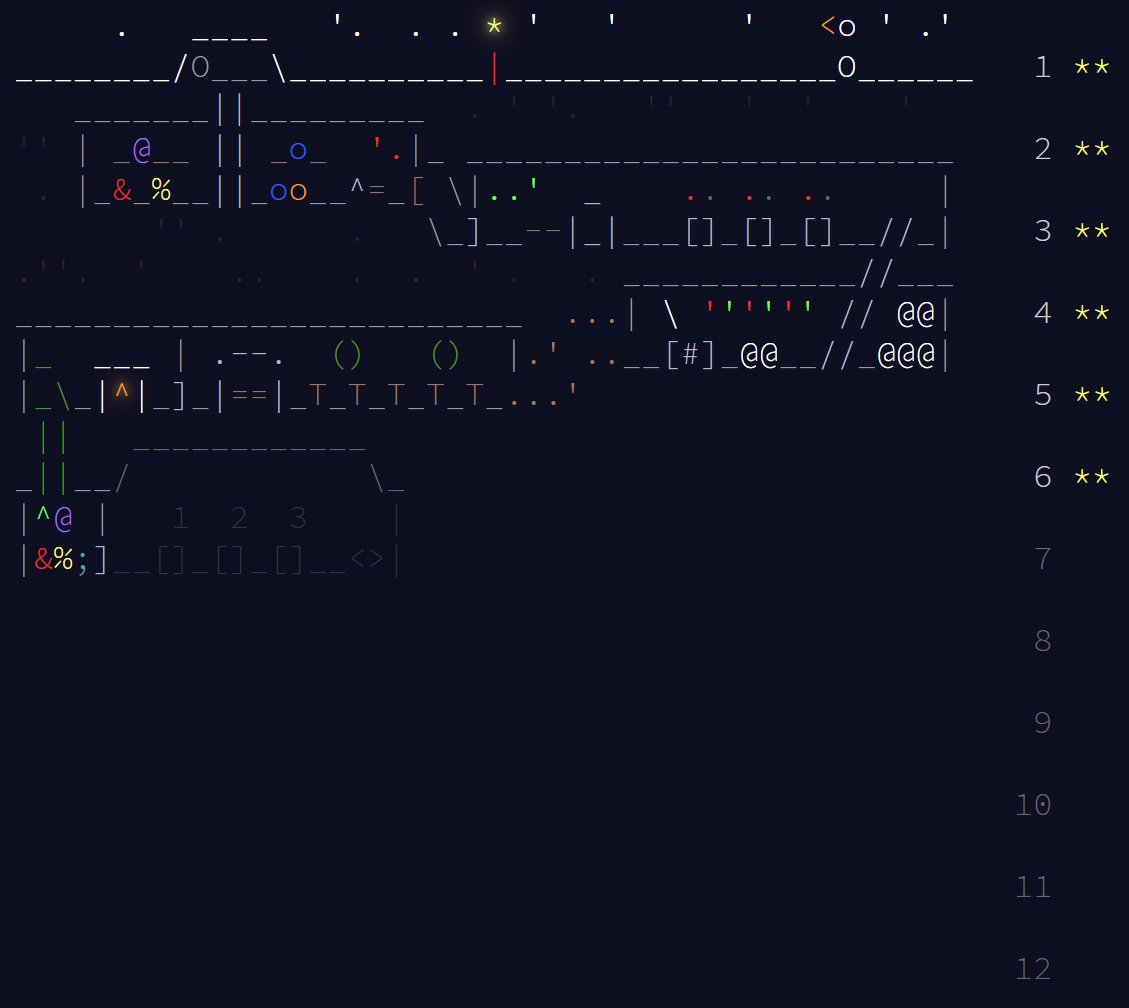
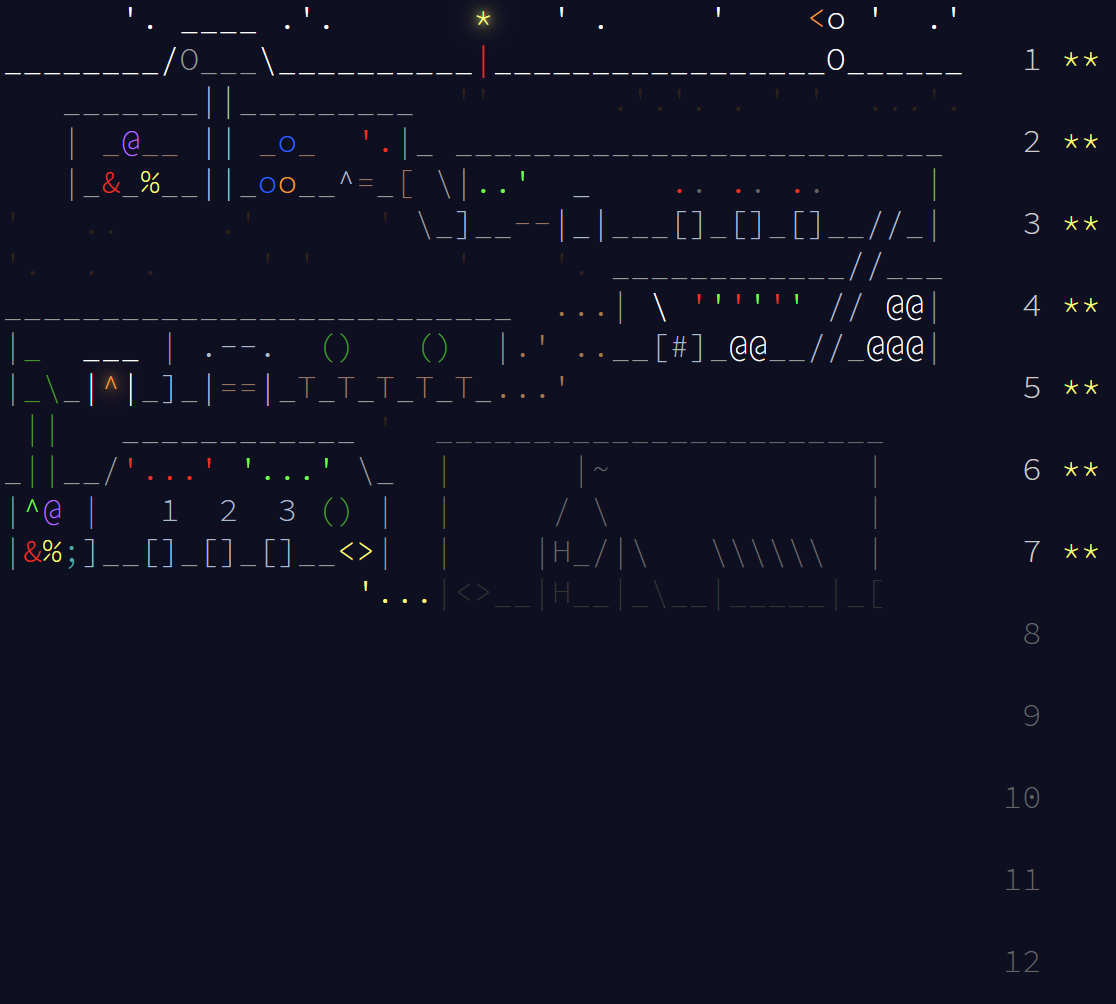
day7

diff --git a/day7/p2.py b/day7/p2.py
@@ -1,0 +1,24 @@
+with open("input.txt", 'r') as file:
+    grid = []
+    
+    for line in file.readlines():
+        a = [1 if (a == 'S' or a == "^") else 0 for a in line.strip()]
+        grid.append(a)
+    
+    split = 0
+    starting = grid[0]
+    for line in grid[1:]:
+        nxt = [0 for _ in starting]
+        for idx in range(len(starting)):
+            if line[idx] == 1 and starting[idx] >= 1:
+                split += 1
+                nxt[idx-1] += starting[idx]
+                nxt[idx+1] += starting[idx]
+            elif line[idx] == 0 and starting[idx] >= 1:
+                nxt[idx] += starting[idx]
+        starting = nxt
+        print(nxt)
+    
+    print(starting)
+    print(sum(starting))
+    print(split)

diff --git a/day7/p1.py b/day7/p1.py
@@ -1,0 +1,24 @@
+with open("input.txt", 'r') as file:
+    grid = []
+    
+    for line in file.readlines():
+        a = [1 if (a == 'S' or a == "^") else 0 for a in line.strip()]
+        grid.append(a)
+    
+    split = 0
+    starting = grid[0]
+    for line in grid[1:]:
+        nxt = [0 for _ in starting]
+        for idx in range(len(starting)):
+            if line[idx] == 1 and starting[idx] == 1:
+                split += 1
+                nxt[idx-1] = 1
+                nxt[idx+1] = 1
+            elif line[idx] == 0 and starting[idx] == 1:
+                nxt[idx] = 1
+        starting = nxt
+        print(nxt)
+    
+    print(starting)
+    print(sum(starting))
+    print(split)

diff --git a/readme.md b/readme.md
@@ -3,4 +3,4 @@ potentially the worst aoc 2025 solutions
 made by yours truly
 
 
-![day 6](progress.png)
+![day 7](progress.png)
